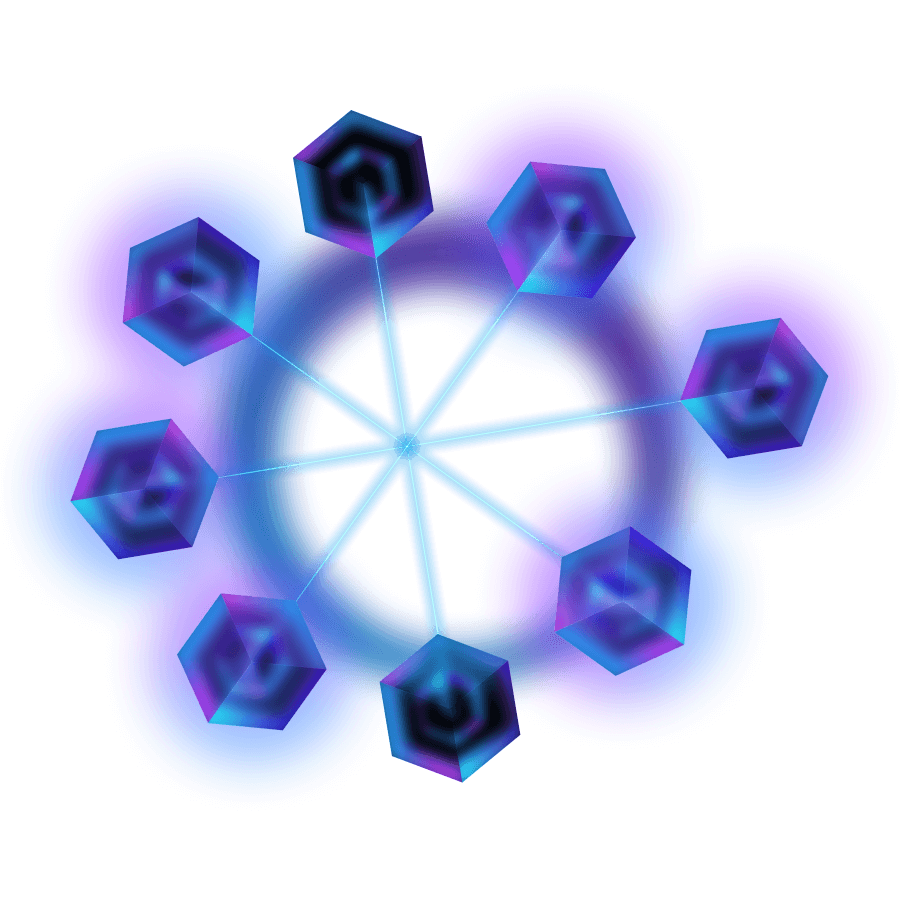
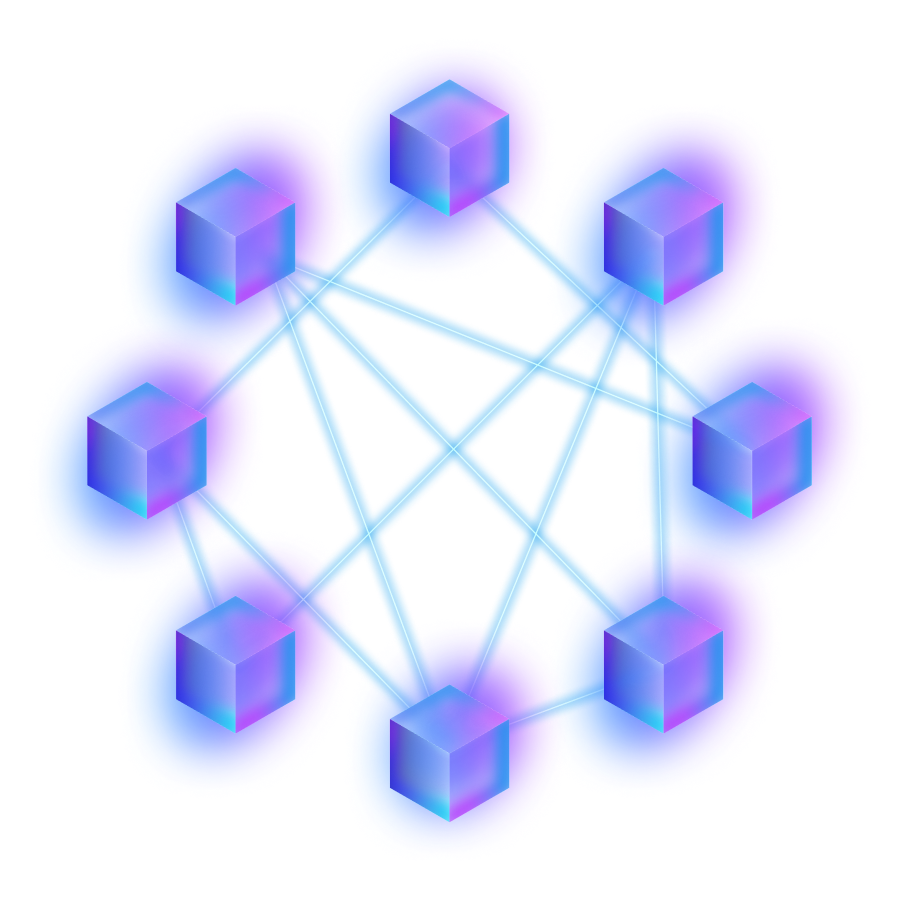
general improvements

diff --git a/src/includes/header.html b/src/includes/header.html
@@ -2,12 +2,12 @@
 
 <div x-data="{ atTop : true }">
     <header
-        class="text-gray-200 w-full transition-all fixed top-0 left-0 right-0 z-50"
+        class="text-gray-200 w-full transition-all fixed top-0 left-0 right-0 z-50 border-b border-gray-700"
         :class="{'bg-gray-900/50 backdrop-blur-3xl' : !atTop}"
         @scroll.window="atTop = ( window.pageYOffset > 0 ) ? false : true">
-        <div class="container mx-auto flex flex-wrap py-4 items-center">
+        <div class="container mx-auto flex flex-wrap py-5 items-center">
         <a href="/" class="flex font-medium items-center text-gray-900 transition-all hover:brightness-125">
-            <svg class="h-10" fill="none" xmlns="http://www.w3.org/2000/svg" viewBox="0 0 149 40"><path fill-rule="evenodd" clip-rule="evenodd" d="M17.42.16a19.89 19.89 0 0 0-8.98 3.51l7.47 14.7c.5-.07 1-.13 1.51-.18V.16ZM6.28 5.45a20.05 20.05 0 0 0-4.47 6.23l9.96 7.62a25.26 25.26 0 0 1 1.36-.37L6.28 5.45Zm-5.47 8.9a20 20 0 0 0 .5 12.8 16.64 16.64 0 0 1 7.47-6.7L.8 14.35Zm2 15.89a19.99 19.99 0 0 0 21.76 9.24 13.51 13.51 0 0 1-3.61-5.62c-.75-2.56-.24-5 1.32-7.03 1.52-1.99 3.98-3.52 7.05-4.56.72-.25 1.48-.47 2.27-.66a125.63 125.63 0 0 0-9.21-.86 37.46 37.46 0 0 0-4.39.13 30.23 30.23 0 0 0-4.5.77c-.54.14-1.06.3-1.55.46-5.6 1.9-8.02 5.43-9.13 8.13Zm24.75 8.28c6.3-2.57 10.99-8.26 12.16-15.15-3.75.08-6.96.61-9.51 1.48-2.77.94-4.68 2.23-5.77 3.64a4.92 4.92 0 0 0-.86 4.6c.47 1.6 1.7 3.46 3.98 5.43ZM40 20.4a20.34 20.34 0 0 0-1.33-7.59l-8.7 5.85c3.3.38 7.04.95 10.03 1.74ZM37.5 10.3a20.1 20.1 0 0 0-5.49-6.3l-7.39 14.14 1.09.08 11.8-7.92Zm-7.79-7.8A19.9 19.9 0 0 0 20.15 0v18.02c.48-.02.97-.02 1.46-.01l8.1-15.5Z" fill="url(#a)"/><path d="M59.92 30.25a9.6 9.6 0 0 0 3.81-.72 8.92 8.92 0 0 0 2.88-1.89 7.22 7.22 0 0 0 1.68-2.61l-3.25-1.52a5.26 5.26 0 0 1-5.12 3.44c-1.24 0-2.34-.3-3.28-.88a6.09 6.09 0 0 1-2.21-2.43 7.96 7.96 0 0 1-.8-3.65c0-1.39.26-2.6.8-3.63a5.86 5.86 0 0 1 2.21-2.43 6.08 6.08 0 0 1 3.28-.88 5.4 5.4 0 0 1 5.12 3.44l3.25-1.52c-.33-.94-.9-1.8-1.68-2.58a8.7 8.7 0 0 0-2.88-1.92 9.6 9.6 0 0 0-3.81-.72c-1.42 0-2.74.25-3.95.77a9.63 9.63 0 0 0-5.23 5.39c-.5 1.24-.74 2.6-.74 4.08 0 1.47.25 2.84.75 4.1a10 10 0 0 0 2.08 3.26 9.47 9.47 0 0 0 7.09 2.9ZM75.08 30.25c1.89 0 3.4-.62 4.54-1.86v1.54h3.3v-9.65a4.78 4.78 0 0 0-2.9-4.5 6.9 6.9 0 0 0-3.12-.67c-1.46 0-2.76.34-3.9 1.04a5.4 5.4 0 0 0-2.34 2.74l2.85 1.39a3.43 3.43 0 0 1 3.25-2.19c.8 0 1.44.22 1.92.64.5.41.75.93.75 1.55v.48l-4.32.7c-1.7.28-2.97.82-3.79 1.62-.81.8-1.22 1.8-1.22 3.01 0 1.28.45 2.3 1.36 3.04.9.75 2.11 1.12 3.62 1.12Zm-1.36-4.29c0-1.01.69-1.65 2.06-1.92l3.65-.61V24a3.56 3.56 0 0 1-3.7 3.57c-.6 0-1.07-.14-1.45-.42-.37-.3-.56-.7-.56-1.2ZM86.15 29.93h3.5v-8.5c0-.95.25-1.7.77-2.27a2.6 2.6 0 0 1 2.03-.85c.85 0 1.53.28 2.02.85.52.55.78 1.3.78 2.27v8.5h3.49v-8.5c0-.95.26-1.7.77-2.27a2.6 2.6 0 0 1 2.03-.85c.85 0 1.53.28 2.03.85.51.55.77 1.3.77 2.27v8.5h3.5V20.6a5.53 5.53 0 0 0-2.62-4.8 5.4 5.4 0 0 0-2.75-.7c-.96 0-1.83.2-2.61.6-.76.38-1.4.97-1.9 1.75a4.62 4.62 0 0 0-1.83-1.7 5.42 5.42 0 0 0-2.64-.64c-.91 0-1.72.17-2.43.53-.71.36-1.25.89-1.63 1.6v-1.81h-3.28v14.5ZM110.79 13.8h3.5v-3.73h-3.5v3.73Zm0 16.13h3.5v-14.5h-3.5v14.5ZM117.5 29.93h3.5v-8.5c0-.95.27-1.7.8-2.27a2.84 2.84 0 0 1 2.13-.85c.88 0 1.58.28 2.11.85.55.55.83 1.3.83 2.27v8.5h3.5V20.6a5.7 5.7 0 0 0-.7-2.85 4.88 4.88 0 0 0-1.95-1.95 5.65 5.65 0 0 0-2.83-.7c-.9 0-1.72.18-2.45.54-.71.36-1.26.88-1.65 1.57v-1.78h-3.28v14.5ZM140.4 30.25a7.6 7.6 0 0 0 6.61-3.65 7.46 7.46 0 0 0 1.05-3.92 7.4 7.4 0 0 0-3.79-6.59 7.68 7.68 0 0 0-3.86-.98 7.6 7.6 0 0 0-6.67 3.68 7.48 7.48 0 0 0-1.01 3.89c0 1.46.34 2.76 1.01 3.9a7.6 7.6 0 0 0 6.67 3.67Zm0-3.2c-.77 0-1.48-.18-2.1-.56a4.04 4.04 0 0 1-1.44-1.54 5 5 0 0 1-.5-2.27c0-.84.16-1.58.5-2.24.36-.66.84-1.17 1.44-1.55.62-.39 1.33-.58 2.1-.58a3.84 3.84 0 0 1 3.47 2.13c.36.66.54 1.4.54 2.24 0 .84-.18 1.6-.53 2.27a3.84 3.84 0 0 1-3.47 2.1Z" fill="#fff"/><defs><linearGradient id="a" x1="0" y1="0" x2="40" y2="40" gradientUnits="userSpaceOnUse"><stop offset=".1" stop-color="#149EED"/><stop offset=".9" stop-color="#B440FC"/></linearGradient></defs></svg>
+            <svg class="h-8 md:h-10" fill="none" xmlns="http://www.w3.org/2000/svg" viewBox="0 0 149 40"><path fill-rule="evenodd" clip-rule="evenodd" d="M17.42.16a19.89 19.89 0 0 0-8.98 3.51l7.47 14.7c.5-.07 1-.13 1.51-.18V.16ZM6.28 5.45a20.05 20.05 0 0 0-4.47 6.23l9.96 7.62a25.26 25.26 0 0 1 1.36-.37L6.28 5.45Zm-5.47 8.9a20 20 0 0 0 .5 12.8 16.64 16.64 0 0 1 7.47-6.7L.8 14.35Zm2 15.89a19.99 19.99 0 0 0 21.76 9.24 13.51 13.51 0 0 1-3.61-5.62c-.75-2.56-.24-5 1.32-7.03 1.52-1.99 3.98-3.52 7.05-4.56.72-.25 1.48-.47 2.27-.66a125.63 125.63 0 0 0-9.21-.86 37.46 37.46 0 0 0-4.39.13 30.23 30.23 0 0 0-4.5.77c-.54.14-1.06.3-1.55.46-5.6 1.9-8.02 5.43-9.13 8.13Zm24.75 8.28c6.3-2.57 10.99-8.26 12.16-15.15-3.75.08-6.96.61-9.51 1.48-2.77.94-4.68 2.23-5.77 3.64a4.92 4.92 0 0 0-.86 4.6c.47 1.6 1.7 3.46 3.98 5.43ZM40 20.4a20.34 20.34 0 0 0-1.33-7.59l-8.7 5.85c3.3.38 7.04.95 10.03 1.74ZM37.5 10.3a20.1 20.1 0 0 0-5.49-6.3l-7.39 14.14 1.09.08 11.8-7.92Zm-7.79-7.8A19.9 19.9 0 0 0 20.15 0v18.02c.48-.02.97-.02 1.46-.01l8.1-15.5Z" fill="url(#a)"/><path d="M59.92 30.25a9.6 9.6 0 0 0 3.81-.72 8.92 8.92 0 0 0 2.88-1.89 7.22 7.22 0 0 0 1.68-2.61l-3.25-1.52a5.26 5.26 0 0 1-5.12 3.44c-1.24 0-2.34-.3-3.28-.88a6.09 6.09 0 0 1-2.21-2.43 7.96 7.96 0 0 1-.8-3.65c0-1.39.26-2.6.8-3.63a5.86 5.86 0 0 1 2.21-2.43 6.08 6.08 0 0 1 3.28-.88 5.4 5.4 0 0 1 5.12 3.44l3.25-1.52c-.33-.94-.9-1.8-1.68-2.58a8.7 8.7 0 0 0-2.88-1.92 9.6 9.6 0 0 0-3.81-.72c-1.42 0-2.74.25-3.95.77a9.63 9.63 0 0 0-5.23 5.39c-.5 1.24-.74 2.6-.74 4.08 0 1.47.25 2.84.75 4.1a10 10 0 0 0 2.08 3.26 9.47 9.47 0 0 0 7.09 2.9ZM75.08 30.25c1.89 0 3.4-.62 4.54-1.86v1.54h3.3v-9.65a4.78 4.78 0 0 0-2.9-4.5 6.9 6.9 0 0 0-3.12-.67c-1.46 0-2.76.34-3.9 1.04a5.4 5.4 0 0 0-2.34 2.74l2.85 1.39a3.43 3.43 0 0 1 3.25-2.19c.8 0 1.44.22 1.92.64.5.41.75.93.75 1.55v.48l-4.32.7c-1.7.28-2.97.82-3.79 1.62-.81.8-1.22 1.8-1.22 3.01 0 1.28.45 2.3 1.36 3.04.9.75 2.11 1.12 3.62 1.12Zm-1.36-4.29c0-1.01.69-1.65 2.06-1.92l3.65-.61V24a3.56 3.56 0 0 1-3.7 3.57c-.6 0-1.07-.14-1.45-.42-.37-.3-.56-.7-.56-1.2ZM86.15 29.93h3.5v-8.5c0-.95.25-1.7.77-2.27a2.6 2.6 0 0 1 2.03-.85c.85 0 1.53.28 2.02.85.52.55.78 1.3.78 2.27v8.5h3.49v-8.5c0-.95.26-1.7.77-2.27a2.6 2.6 0 0 1 2.03-.85c.85 0 1.53.28 2.03.85.51.55.77 1.3.77 2.27v8.5h3.5V20.6a5.53 5.53 0 0 0-2.62-4.8 5.4 5.4 0 0 0-2.75-.7c-.96 0-1.83.2-2.61.6-.76.38-1.4.97-1.9 1.75a4.62 4.62 0 0 0-1.83-1.7 5.42 5.42 0 0 0-2.64-.64c-.91 0-1.72.17-2.43.53-.71.36-1.25.89-1.63 1.6v-1.81h-3.28v14.5ZM110.79 13.8h3.5v-3.73h-3.5v3.73Zm0 16.13h3.5v-14.5h-3.5v14.5ZM117.5 29.93h3.5v-8.5c0-.95.27-1.7.8-2.27a2.84 2.84 0 0 1 2.13-.85c.88 0 1.58.28 2.11.85.55.55.83 1.3.83 2.27v8.5h3.5V20.6a5.7 5.7 0 0 0-.7-2.85 4.88 4.88 0 0 0-1.95-1.95 5.65 5.65 0 0 0-2.83-.7c-.9 0-1.72.18-2.45.54-.71.36-1.26.88-1.65 1.57v-1.78h-3.28v14.5ZM140.4 30.25a7.6 7.6 0 0 0 6.61-3.65 7.46 7.46 0 0 0 1.05-3.92 7.4 7.4 0 0 0-3.79-6.59 7.68 7.68 0 0 0-3.86-.98 7.6 7.6 0 0 0-6.67 3.68 7.48 7.48 0 0 0-1.01 3.89c0 1.46.34 2.76 1.01 3.9a7.6 7.6 0 0 0 6.67 3.67Zm0-3.2c-.77 0-1.48-.18-2.1-.56a4.04 4.04 0 0 1-1.44-1.54 5 5 0 0 1-.5-2.27c0-.84.16-1.58.5-2.24.36-.66.84-1.17 1.44-1.55.62-.39 1.33-.58 2.1-.58a3.84 3.84 0 0 1 3.47 2.13c.36.66.54 1.4.54 2.24 0 .84-.18 1.6-.53 2.27a3.84 3.84 0 0 1-3.47 2.1Z" fill="#fff"/><defs><linearGradient id="a" x1="0" y1="0" x2="40" y2="40" gradientUnits="userSpaceOnUse"><stop offset=".1" stop-color="#149EED"/><stop offset=".9" stop-color="#B440FC"/></linearGradient></defs></svg>
         </a>
 
         <div x-data="{ menuOpen: false }" class="ml-auto">
@@ -42,8 +42,8 @@
             <a href="/travel" class="p-2 hover:text-white cursor-pointer">Travel<a>
             <a href="/developer" class="p-2 hover:text-white cursor-pointer">Developers</a>
             <a href="/community" class="p-2 hover:text-white cursor-pointer">Community</a>
-            <a href="https://discord.gg/Vzxf8cqn" class="ml-4 py-2 px-4 border border-gray-700 rounded-xl text-white">Join Discord</a>
-            <a href="https://wallet.camino.foundation/" class="ml-2 py-2 px-4 bg-blue-600 rounded-xl text-white">Create Wallet</a>
+            <a href="https://discord.gg/Vzxf8cqn" class="ml-4 py-2 px-4 border border-gray-700 rounded-xl text-white bg-gray-900/50">Join Discord</a>
+            <a href="https://wallet.camino.foundation/" class="ml-2 py-2 px-4 button rounded-xl text-white">Create Wallet</a>
         </nav>
         </div>
     </header>

diff --git a/src/travel.html b/src/travel.html
@@ -5,10 +5,10 @@ layout:         default
 ---
 
 <!-- Hero Start -->
-    {% set heroTitle = "Camino - made for travel" %}
+    {% set heroTitle = "Camino is made for travel" %}
     {% set heroSubtitle = "" %}
     {% set heroText = "Camino will form the new operating system of the global travel industry, allowing all participants in the space, from airlines and hotels to rental car companies and tour operators, to interact with one another efficiently, reliably, and transparently." %}
-    {% set heroBgImage = "cards" %}
+    {% set heroBgImage = "cubes" %}
     {% include "hero.html" %}
 <!-- Hero End -->
 
@@ -26,7 +26,7 @@ layout:         default
 <section>
     <h1 class="text-center mb-12">Validator node set-up made easy</h1>
     <div class="grid grid-cols-2 gap-6 md:gap-12">
-        <div class="grid-cols-2 md:grid-cols-1 rounded-camino bg-primary p-8 md:p-16">
+        <div class="col-span-2 md:col-span-1 rounded-camino bg-primary p-8 md:p-16">
             <h2 class="mb-6">Few requirements, no entry barriers</h2>
             <ul class="list-disc ml-4">
                 <li>Stake of 100,000 CAMs</li>
@@ -34,7 +34,7 @@ layout:         default
                 <li>Admittance as a validator by the validator consortia via a vote</li>
             </ul>
         </div>
-        <div class="grid-cols-2 md:grid-cols-1 rounded-camino bg-accent text-gray-900 p-8 md:p-16">
+        <div class="col-span-2 md:col-span-1 rounded-camino bg-accent text-gray-900 p-8 md:p-16">
             <h2 class="mb-6">Easy set-up, low mainenance</h2>
             <ul class="list-disc ml-4">
                 <li>Set up takes only 1-2 hours</li>
@@ -45,32 +45,32 @@ layout:         default
 </section>
 
 <section>
-    <div class="gradient p-16 rounded-camino text-center">
-        <h3 class="mb-12">
+    <div class="gradient p-4 md:p-16 rounded-camino text-center">
+        <h3 class="mb-8 md:mb-12">
             Our goal is to become the new operating system of the global travel industry, allowing all participants in the space—from airlines and hotels to rental car companies and tour operators—to interact with one another efficiently, reliably, and transparently.
         </h3>
         <div class="gradient-full p-1 rounded-camino mb-6">
-            <div class="flex flex-col justify-center items-center bg-gray-900 p-12 rounded-camino">
+            <div class="flex flex-col justify-center items-center bg-gray-900 p-6 md:p-12 rounded-camino">
                 <h2 class="mb-6">Aviation</h2>
-                <p class="leading-relaxed italic mb-6 text-xl">“Blockchains have enormous potential to materially change our business model by making transactions along the value chain more secure, efficient and traceable. Camino, as the first blockchain platform for travel, offers vast possibilities to enhance processes, products and services in the travel industry. Eurowings will be one of the first movers, currently exploring first use cases in inflight shopping, customer loyalty, digital marketing and sales.“</p>
+                <p class="leading-snug md:leading-relaxed italic mb-6 md:text-xl">“Blockchains have enormous potential to materially change our business model by making transactions along the value chain more secure, efficient and traceable. Camino, as the first blockchain platform for travel, offers vast possibilities to enhance processes, products and services in the travel industry. Eurowings will be one of the first movers, currently exploring first use cases in inflight shopping, customer loyalty, digital marketing and sales.“</p>
                 <img class="w-16 h-16 mb-4 rounded-full" src="/static/images/people/jensbischof.png" alt="">
                 <p class="font-headline text-2xl tracking-wider">Jens Bischof</p>
                 <p class="text-primary text-sm uppercase tracking-wider">CEO EUROWINGS</p>
             </div>
         </div>
         <div class="gradient-full p-1 rounded-camino mb-6">
-            <div class="flex flex-col justify-center items-center bg-gray-900 p-12 rounded-camino">
+            <div class="flex flex-col justify-center items-center bg-gray-900 p-6 md:p-12 rounded-camino">
                 <h2 class="mb-6">Tour operators</h2>
-                <p class="leading-relaxed italic mb-6 text-xl">“At TUI, we were early adopters of blockchain technology and have already developed initial applications in the hotel sector. Chain4Travel offers new opportunities for our distribution and travel production - thanks to its technology and network. Bringing the travel industry together with blockchain technology is the right approach to drive innovation in the industry and keep transaction costs low.”</p>
+                <p class="leading-snug md:leading-relaxed italic mb-6 md:text-xl">“At TUI, we were early adopters of blockchain technology and have already developed initial applications in the hotel sector. Chain4Travel offers new opportunities for our distribution and travel production - thanks to its technology and network. Bringing the travel industry together with blockchain technology is the right approach to drive innovation in the industry and keep transaction costs low.”</p>
                 <img class="w-16 h-16 mb-4 rounded-full" src="/static/images/people/frankrosenberger.png" alt="">
                 <p class="font-headline text-2xl tracking-wider">Frank Rosenberger</p>
                 <p class="text-primary text-sm uppercase tracking-wider">CIO & CEO FUTURE MARKETS TUI GROUP</p>
             </div>
         </div>
         <div class="gradient-full p-1 rounded-camino">
-            <div class="flex flex-col justify-center items-center bg-gray-900 p-12 rounded-camino">
+            <div class="flex flex-col justify-center items-center bg-gray-900 p-6 md:p-12 rounded-camino">
                 <h2 class="mb-6">Hotels</h2>
-                <p class="leading-relaxed italic mb-6 text-xl">“Today, hotel distribution can be quite challenging. The Camino consortium blockchain has the potential for a technical revolution. Our hospitality industry can benefit immensely from the Camino Mainnet in various areas. At Falkensteiner Hotels & Residences we are already working on ideas and concepts for voucher solutions, customer loyalty programs and the improved distribution of microservices and ancillaries linked to our hotels. We are also evolving our digital footprint towards new ways our guests will consume and experience our products and services, even in the meta space.”</p>
+                <p class="leading-snug md:leading-relaxed italic mb-6 md:text-xl">“Today, hotel distribution can be quite challenging. The Camino consortium blockchain has the potential for a technical revolution. Our hospitality industry can benefit immensely from the Camino Mainnet in various areas. At Falkensteiner Hotels & Residences we are already working on ideas and concepts for voucher solutions, customer loyalty programs and the improved distribution of microservices and ancillaries linked to our hotels. We are also evolving our digital footprint towards new ways our guests will consume and experience our products and services, even in the meta space.”</p>
                 <img class="w-16 h-16 mb-4 rounded-full" src="/static/images/people/erichfalkensteiner.png" alt="">
                 <p class="font-headline text-2xl tracking-wider">Erich Falkensteiner</p>
                 <p class="text-primary text-sm uppercase tracking-wider">Chairman Falkensteiner Michaeler Tourism Group</p>

diff --git a/src/includes/tagCloud.html b/src/includes/tagCloud.html
@@ -4,16 +4,16 @@
             The world of travel on Camino
         </h1>
         <div class="flex justify-center flex-wrap">
-            <div class="mx-1 my-2 md:my-3 md:mx-2 relative gradient-full rounded-full p-1"><div class="font-headline md:text-3xl font-medium tracking-tight rounded-full bg-gray-900 px-4 md:px-14 py-2 md:py-6 uppercase">Tour operators</div></div>
-            <div class="mx-1 my-2 md:my-3 md:mx-2 relative gradient-full rounded-full p-1"><div class="font-headline md:text-3xl font-medium tracking-tight rounded-full bg-gray-900 px-4 md:px-14 py-2 md:py-6 uppercase">Travel agencies</div></div>
-            <div class="mx-1 my-2 md:my-3 md:mx-2 relative gradient-full rounded-full p-1"><div class="font-headline md:text-3xl font-medium tracking-tight rounded-full bg-gray-900 px-4 md:px-14 py-2 md:py-6 uppercase">Accommodation provider</div></div>
-            <div class="mx-1 my-2 md:my-3 md:mx-2 relative gradient-full rounded-full p-1"><div class="font-headline md:text-3xl font-medium tracking-tight rounded-full bg-gray-900 px-4 md:px-14 py-2 md:py-6 uppercase">Gastronomy</div></div>
-            <div class="mx-1 my-2 md:my-3 md:mx-2 relative gradient-full rounded-full p-1"><div class="font-headline md:text-3xl font-medium tracking-tight rounded-full bg-gray-900 px-4 md:px-14 py-2 md:py-6 uppercase">Search & Distrubution</div></div>
-            <div class="mx-1 my-2 md:my-3 md:mx-2 relative gradient-full rounded-full p-1"><div class="font-headline md:text-3xl font-medium tracking-tight rounded-full bg-gray-900 px-4 md:px-14 py-2 md:py-6 uppercase">Transport Services</div></div>
-            <div class="mx-1 my-2 md:my-3 md:mx-2 relative gradient-full rounded-full p-1"><div class="font-headline md:text-3xl font-medium tracking-tight rounded-full bg-gray-900 px-4 md:px-14 py-2 md:py-6 uppercase">Ancillary</div></div>
-            <div class="mx-1 my-2 md:my-3 md:mx-2 relative gradient-full rounded-full p-1"><div class="font-headline md:text-3xl font-medium tracking-tight rounded-full bg-gray-900 px-4 md:px-14 py-2 md:py-6 uppercase">Information Services</div></div>
-            <div class="mx-1 my-2 md:my-3 md:mx-2 relative gradient-full rounded-full p-1"><div class="font-headline md:text-3xl font-medium tracking-tight rounded-full bg-gray-900 px-4 md:px-14 py-2 md:py-6 uppercase">Payment Services</div></div>
-            <div class="mx-1 my-2 md:my-3 md:mx-2 relative gradient-full rounded-full p-1"><div class="font-headline md:text-3xl font-medium tracking-tight rounded-full bg-gray-900 px-4 md:px-14 py-2 md:py-6 uppercase">Others</div></div>
+            <div class="mx-1 my-2 md:my-3 md:mx-2 relative gradient-full rounded-full p-1"><div class="font-headline text-base md:text-2xl font-medium tracking-tight rounded-full bg-gray-900 px-4 md:px-14 py-2 md:py-6 uppercase">Tour operators</div></div>
+            <div class="mx-1 my-2 md:my-3 md:mx-2 relative gradient-full rounded-full p-1"><div class="font-headline text-base md:text-2xl font-medium tracking-tight rounded-full bg-gray-900 px-4 md:px-14 py-2 md:py-6 uppercase">Travel agencies</div></div>
+            <div class="mx-1 my-2 md:my-3 md:mx-2 relative gradient-full rounded-full p-1"><div class="font-headline text-base md:text-2xl font-medium tracking-tight rounded-full bg-gray-900 px-4 md:px-14 py-2 md:py-6 uppercase">Accommodation provider</div></div>
+            <div class="mx-1 my-2 md:my-3 md:mx-2 relative gradient-full rounded-full p-1"><div class="font-headline text-base md:text-2xl font-medium tracking-tight rounded-full bg-gray-900 px-4 md:px-14 py-2 md:py-6 uppercase">Gastronomy</div></div>
+            <div class="mx-1 my-2 md:my-3 md:mx-2 relative gradient-full rounded-full p-1"><div class="font-headline text-base md:text-2xl font-medium tracking-tight rounded-full bg-gray-900 px-4 md:px-14 py-2 md:py-6 uppercase">Search & Distrubution</div></div>
+            <div class="mx-1 my-2 md:my-3 md:mx-2 relative gradient-full rounded-full p-1"><div class="font-headline text-base md:text-2xl font-medium tracking-tight rounded-full bg-gray-900 px-4 md:px-14 py-2 md:py-6 uppercase">Transport Services</div></div>
+            <div class="mx-1 my-2 md:my-3 md:mx-2 relative gradient-full rounded-full p-1"><div class="font-headline text-base md:text-2xl font-medium tracking-tight rounded-full bg-gray-900 px-4 md:px-14 py-2 md:py-6 uppercase">Ancillary</div></div>
+            <div class="mx-1 my-2 md:my-3 md:mx-2 relative gradient-full rounded-full p-1"><div class="font-headline text-base md:text-2xl font-medium tracking-tight rounded-full bg-gray-900 px-4 md:px-14 py-2 md:py-6 uppercase">Information Services</div></div>
+            <div class="mx-1 my-2 md:my-3 md:mx-2 relative gradient-full rounded-full p-1"><div class="font-headline text-base md:text-2xl font-medium tracking-tight rounded-full bg-gray-900 px-4 md:px-14 py-2 md:py-6 uppercase">Payment Services</div></div>
+            <div class="mx-1 my-2 md:my-3 md:mx-2 relative gradient-full rounded-full p-1"><div class="font-headline text-base md:text-2xl font-medium tracking-tight rounded-full bg-gray-900 px-4 md:px-14 py-2 md:py-6 uppercase">Others</div></div>
         </div>
     </div>
 </section>

diff --git a/src/developer.html b/src/developer.html
@@ -8,7 +8,7 @@ layout:         default
     {% set heroTitle = "Camino is developer-friendly" %}
     {% set heroSubtitle = "Start building on the first layer one for the travel industry" %}
     {% set heroText = "" %}
-    {% set heroBgImage = "cubes" %}
+    {% set heroBgImage = "cards" %}
     {% include "hero.html" %}
 <!-- Hero End -->
 
@@ -43,7 +43,7 @@ layout:         default
 <section>
     <h1 class="text-center mb-12">Node set-up made easy</h1>
     <div class="grid grid-cols-2 gap-6 md:gap-12">
-        <div class="grid-cols-2 md:grid-cols-1 rounded-camino bg-primary p-8 md:p-14 flex flex-col">
+        <div class="col-span-2 md:col-span-1 rounded-camino bg-primary p-8 md:p-14 flex flex-col">
             <h2 class="mb-6">Easy set-up</h2>
             <ul class="list-disc ml-4">
                 <li>Set-up takes only 1-2 hours</li>
@@ -57,7 +57,7 @@ layout:         default
                 <a href="#" class="mr-2 mb-2 py-3 px-4 rounded-2xl bg-white/20 text-white">Docker installation</a>
             </div>
         </div>
-        <div class="grid-cols-2 md:grid-cols-1 rounded-camino bg-secondary p-8 md:p-14 flex flex-col">
+        <div class="col-span-2 md:col-span-1 rounded-camino bg-secondary p-8 md:p-14 flex flex-col">
             <h2 class="mb-8">Hardware requirements</h2>
             <h3 class="mb-6">“Light Weight” Node</h3>
             <p>Equivalent of 8 AWS vCPU</p>
@@ -98,17 +98,17 @@ layout:         default
 <section>
     <h1 class="mb-12 text-center">Node set-up made easy</h1>
     <h3 class="mb-12 text-center">We want to give you the opportunity to build something awesome, and we know that getting started can be tough. That's why we've made it easy for you to get started with a detailed description in our documentation.</h3>
-    <div class="grid grid-cols-2 grid-rows-2 gap-12">
-        <div class="bg-primary p-16 col-span-1 row-span-1 rounded-camino">
+    <div class="md:grid grid-cols-2 grid-rows-2 gap-12">
+        <div class="bg-primary p-16 col-span-2 md:col-span-1 md:row-span-1 rounded-camino mb-8 md:mb-0">
             <h2 class="mb-6">First</h2>
             <p>Building on the Camino blockchain is easy. The team has streamlined the process so that anyone with basic technical skills can get started. </p>
         </div>
-        <div class="bg-gray-800 text-accent p-16 col-span-1 row-span-2 rounded-camino">
+        <div class="bg-gray-800 text-accent p-16 col-span-2 md:col-span-1 md:row-span-2 rounded-camino mb-8 md:mb-0">
             <img class="w-full -mt-16" src="/static/images/cardImages/generic-08.png" alt="">
             <h2 class="mb-6">Third</h2>
             <p>There's a strong community behind this network that's committed to making sure everyone succeeds and thrives. This means that even if you don't have any experience developing dApps or launching blockchain projects, they'll be happy to help you out along every step of the way, or even connect you with the ones that can.</p>
         </div>
-        <div class="bg-secondary p-16 col-span-1 row-span-1 rounded-camino">
+        <div class="bg-secondary p-16 col-span-2 md:col-span-1 md:row-span-1 rounded-camino mb-8 md:mb-0">
             <h2 class="mb-6">Second</h2>
             <p>We offer dApp incentives. If you want to get started with a great idea but don’t have the funds, you can apply for the dApp inventive pool. The amount varies depending on how promising your project sounds. </p>
         </div>

diff --git a/src/ecosystem.html b/src/ecosystem.html
@@ -13,12 +13,12 @@ layout:         default
 <!-- Hero End -->
 
 <section>
-    <h1 class="text-center mb-12">Discover dApp projects on Camino</h1>
+    <h1 class="text-center mb-12 md:mb-16">Discover dApp projects on Camino</h1>
     <div class="grid gap-6 grid-cols-12">
         <div class="col-span-6 md:col-span-3 text-center">
             <img class="h-16 md:w-24 md:h-24 mx-auto" src="/static/images/apps/app-milesandmore.png" alt="">
-            <h3 class="mt-2 md:mt-6 md:mb-2">Miles & More Anywhere</h3>
-            <p class="text-sm md:text-base text-gray-300">Loyalty programs made easy and accesible</p>
+            <h3 class="mt-2 md:mt-6 md:mb-2">Miles & More <br> Anywhere</h3>
+            <p class="text-sm md:text-base text-gray-300">Rethinking loyalty programs</p>
         </div>
         <div class="col-span-6 md:col-span-3 text-center">
             <img class="h-16 md:w-24 md:h-24 mx-auto" src="/static/images/apps/app-giata.png" alt="">
@@ -27,7 +27,7 @@ layout:         default
         </div>
         <div class="col-span-6 md:col-span-3 text-center">
             <img class="h-16 md:w-24 md:h-24 mx-auto" src="/static/images/apps/app-a3m.png" alt="">
-            <h3 class="mt-2 md:mt-6 md:mb-2">A3M Disaster Information</h3>
+            <h3 class="mt-2 md:mt-6 md:mb-2">A3M Disaster <br> Information</h3>
             <p class="text-sm md:text-base text-gray-300">A3M incident messaging in web3</p>
         </div>
         <div class="col-span-6 md:col-span-3 text-center">

diff --git a/src/includes/cardSolo.html b/src/includes/cardSolo.html
@@ -4,13 +4,13 @@
         <div class="bg-{{ cardSoloBG }} rounded-camino flex flex-col md:flex-row items-stretch overflow-hidden">
         
             {% if cardSoloImagePosition == 'left' %}
-            <div class="md:w-2/3 max-h-[480px] flex order-last md:order-first">
+            <div class="md:w-2/3 max-h-[400px] flex order-last md:order-first">
                 <img class="w-full object-contain" src="../static/images/cardImages/{{ cardSoloImage }}.png" alt="">
             </div>
             {% endif %}
 
             <div class="p-8 md:p-16 text-left flex flex-col justify-center {% if cardSoloBG == 'gray-800' %} text-white {% endif %} {% if cardSoloBG == 'primary' %} text-white {% endif %} {% if cardSoloBG == 'accent' %} text-gray-900 {% endif %}">
-                <h2 class="{% if cardRowSubtitle %}mb-6{% endif %}">{{ cardSoloTitle }}</h2>
+                <h2 class="mb-6">{{ cardSoloTitle }}</h2>
                 {% if cardSoloSubtitle %}
                 <h3>
                     {{ cardSoloSubtitle }}
@@ -37,7 +37,7 @@
                 {% endif %}
             </div>
             {% if cardSoloImagePosition == 'right' %}
-            <div class="md:w-2/3 max-h-[480px] flex">
+            <div class="md:w-2/3 max-h-[400px] flex">
                 <img class="w-full object-contain" src="../static/images/cardImages/{{cardSoloImage}}.png" alt="">
             </div>
             {% endif %}

diff --git a/src/community.html b/src/community.html
@@ -8,7 +8,7 @@ layout:         default
     {% set heroTitle = "Community" %}
     {% set heroSubtitle = "Many ways to connect" %}
     {% set heroText = "" %}
-    {% set heroBgImage = "blocks" %}
+    {% set heroBgImage = "cubes2" %}
     {% include "hero.html" %}
 <!-- Hero End -->
 
@@ -80,3 +80,15 @@ layout:         default
     </article>
 
 </section>
+
+<!-- CardSolo Start -->
+{% set cardSoloBG = "gray-800" %}
+{% set cardSoloImage = "token-dark-both" %}
+{% set cardSoloImagePosition = "right" %}
+{% set cardSoloTitle = "Camino branding guidelines" %}
+{% set cardSoloParagraph = "Camino is something that belongs to everyone. Yet, ensuring the brand stays true to its core is essential. Follow these guidelines when promoting Camino in marketing communications, including advertising, articles, websites or printed materials." %}
+{% set cardSoloParagraph2 = "" %}
+{% set cardSoloButton = "Explore branding guidelines" %}
+{% set cardSoloButtonLink = "/branding" %}
+{% include "cardSolo.html" %}
+<!-- CardSolo End -->

diff --git a/src/includes/hero.html b/src/includes/hero.html
@@ -1,5 +1,5 @@
 <div
-    class="bg-contain bg-top bg-no-repeat relative"
+    class="bg-cover md:bg-contain bg-top bg-no-repeat relative"
     {% if heroBgImage %}
     style="background-image:url('/static/images/heroBgImages/{{ heroBgImage }}.png');--sal-duration: .75s; --sal-delay: .25s;"
     {% endif %}
@@ -21,9 +21,8 @@
         </p>
         {% endif %}
         {% if home %}
-        <div class="relative mt-16 max-w-[600px] mx-auto" data-sal="zoom-in">
-            <img class="" src="/static/images/heroBgImages/camino-glas.png" alt="">
-            <div class="absolute -inset-12 -z-10 blur-3xl rounded-full bg-gradient-to-tr opacity-75 from-cyan-600 to-purple-600"></div>
+        <div class="relative -mt-0 md:-mt-20 max-w-[800px] mx-auto" data-sal="zoom-in">
+            <img src="/static/images/camino-logo.gif" alt="">
         </div>
         {% endif %}
     </div>

diff --git a/src/includes/roadmap.html b/src/includes/roadmap.html
@@ -37,7 +37,7 @@
                 <circle cx="32" cy="32" r="24" stroke="#A1A1A9" stroke-width="2" stroke-linecap="round" stroke-linejoin="round"/>
                 <path d="M32 18.6665V31.9998L42.6667 37.3332" stroke="#A1A1A9" stroke-width="2" stroke-linecap="round" stroke-linejoin="round"/>
             </svg>
-            <h3 class="mb-2 md:mb-6">Mainnet Launch</h3>
+            <h3 class="mb-2 md:mb-6">Mainnet launch</h3>
             <p>Lorem ipsum dolor sit amet, consectetuer adipiscing elit. Aenean commodo ligula eget dolor.</p>
         </div>
         <div class="col-span-5 lg:col-span-1 bg-gray-800 rounded-3xl p-4 md:p-8">

diff --git a/src/index.html b/src/index.html
@@ -43,7 +43,7 @@ layout:         default
     {% set cardThirdLinkLabel = "" %}
 
     {% set cardFourthImage = "cardimage04" %}
-    {% set cardFourthTitle = "Low transaction fees" %}
+    {% set cardFourthTitle = "Accelerated innovation pace" %}
     {% set cardFourthText = "" %}
     {% set cardFourthLinkLabel = "" %}
 

diff --git a/src/styles/tailwind.css b/src/styles/tailwind.css
@@ -45,7 +45,7 @@ body {
 }
 
 section {
-  @apply container py-8 md:py-12 2xl:py-20;
+  @apply container py-16 lg:py-24;
 }
 
 .hero {
